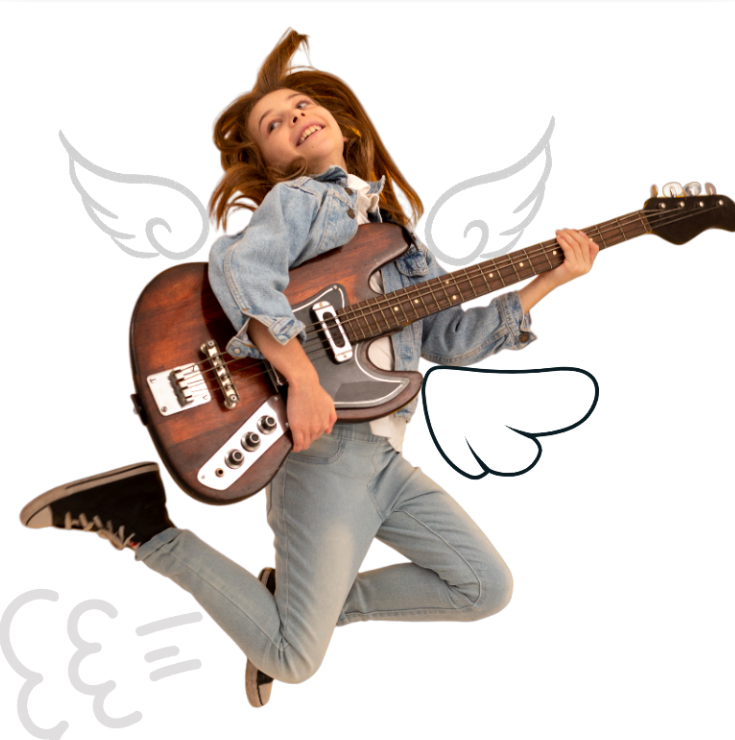
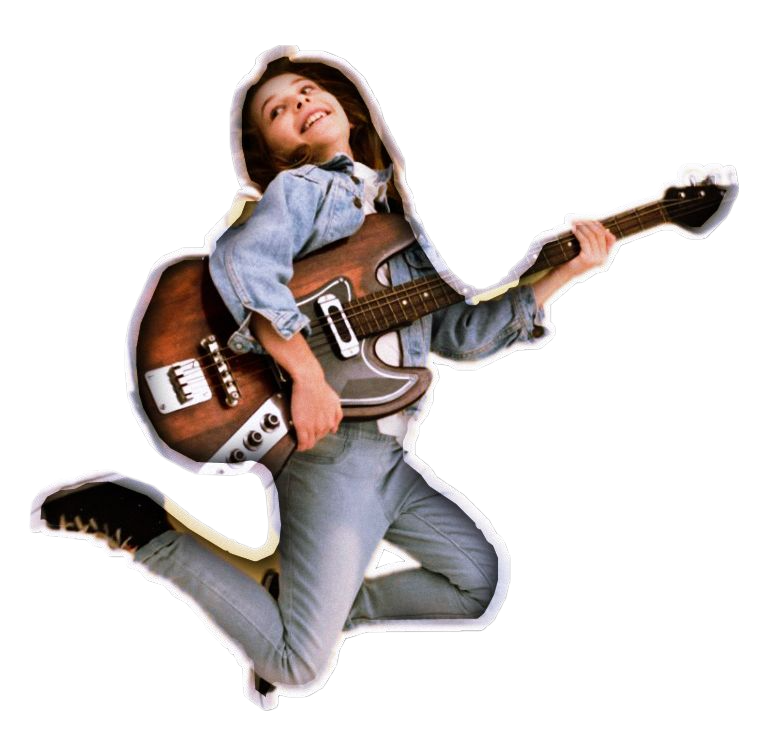
Improved homepage image

diff --git a/index.html b/index.html
@@ -47,9 +47,7 @@
             <div class="caption">
                 <h2>For Skills Development</h2>
                 <h1>Welcome to EdJack - Redefining Education</h1>
-                <!-- <h1>"Dive deeper than textbooks"</h1> -->
                 <p>Discover innovative approaches to education that foster skills development beyond textbooks.</p>
-                <!-- <h3>We are here to redefine Education</h3> -->
             </div>
 
             <picture>
@@ -109,7 +107,7 @@
             </section>
             <section>
                 <h5>
-                    15
+                    15+
                 </h5>
                 <p>
                     Countries Worldwide
@@ -153,7 +151,5 @@
             <p>&copy; 2023 Ankit Bhagat aka annonymousbanda. All Rights Reserved.</p>
         </div>
     </footer>
-
-
 </body>
 </html>

diff --git a/index.css b/index.css
@@ -28,7 +28,7 @@ header main .caption
 
 header main picture img
 {
-    width: 300px;
+    width: 400px;
     border-radius: var(--corner-radius);
 }
 
@@ -37,7 +37,7 @@ header main
     display: flex;
     justify-content: space-between;
 
-    margin-top: 150px;
+    margin-top: 100px;
     margin-bottom: 50px;
 }
 

diff --git a/common.css b/common.css
@@ -29,7 +29,7 @@ header
 
     padding: 0% 10%;
     
-    background: linear-gradient(135deg, var(--bg-colorOne) 50%, var(--bg-colorTwo) 50%);
+    background: linear-gradient(135deg, var(--bg-colorOne) 35%, var(--bg-colorTwo) 35%);
 }
 
 /* navigation */
